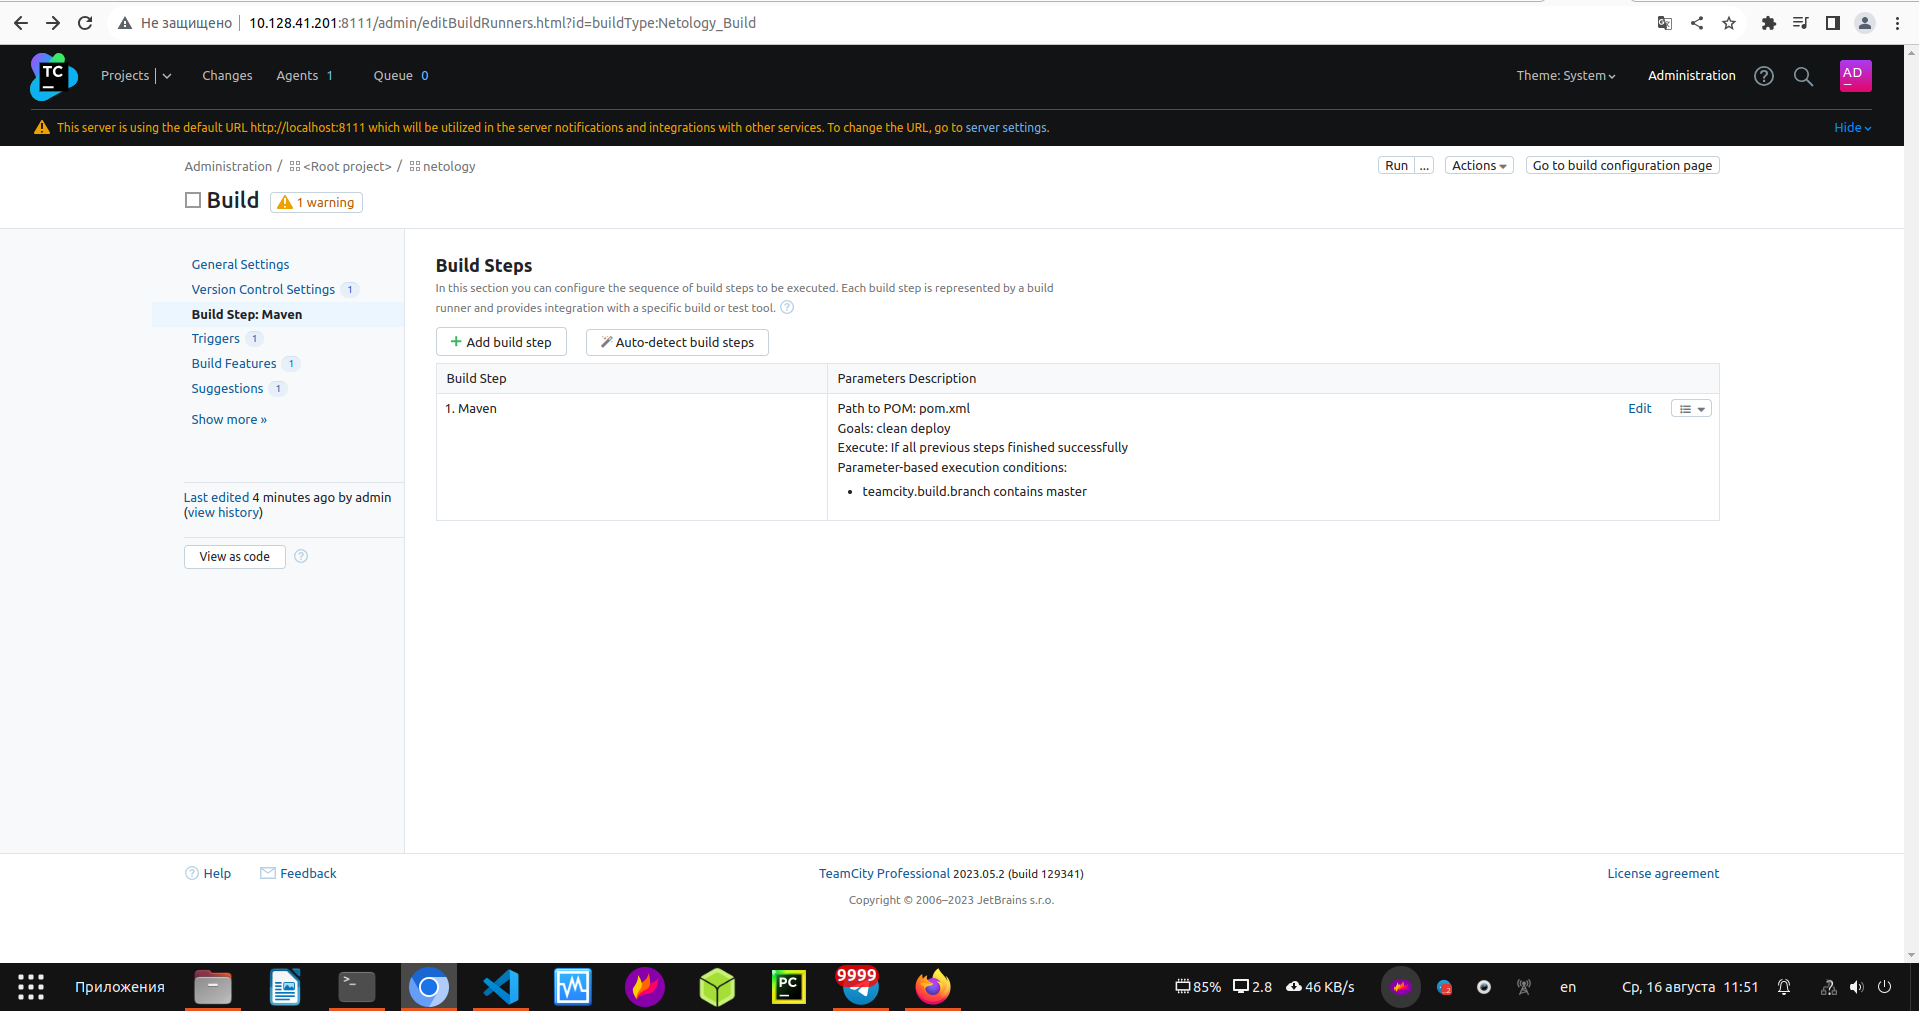
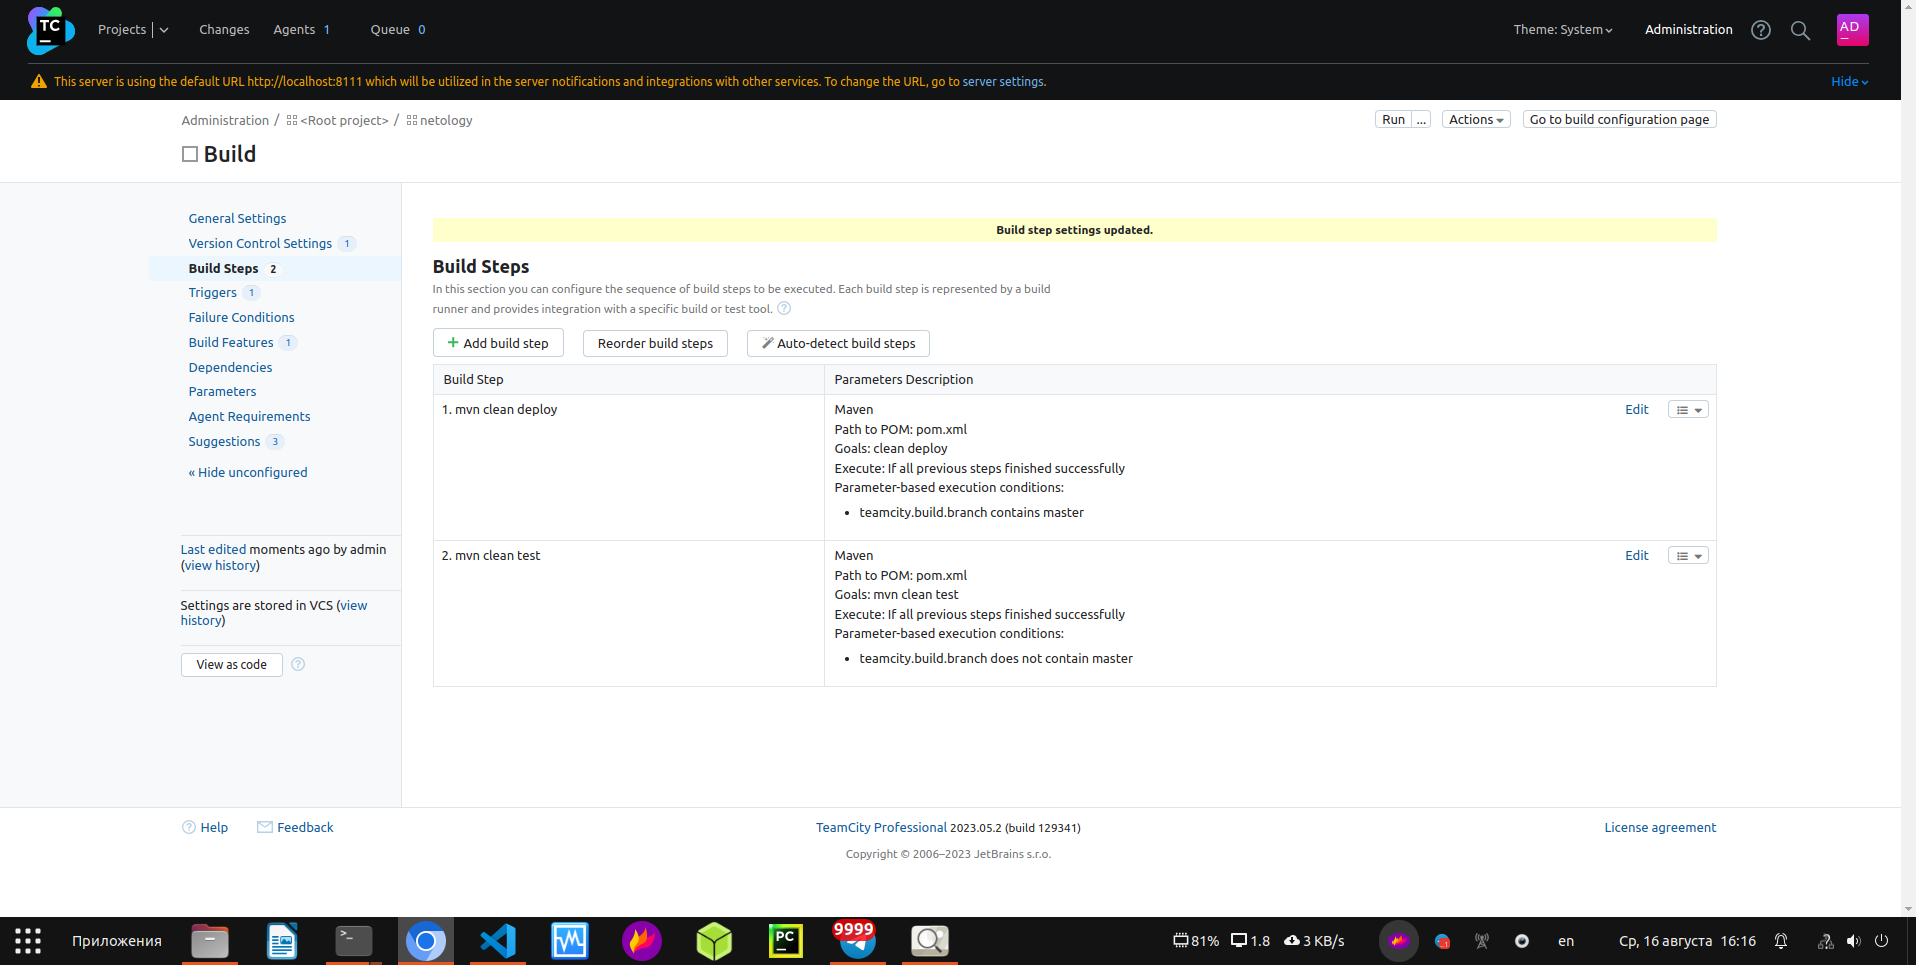
Домашняя работа №9.5(4)

diff --git a/9.5/README.md b/9.5/README.md
@@ -1,0 +1,139 @@
+# Домашнее задание к занятию 11 «Teamcity»
+
+## Подготовка к выполнению
+
+1. В Yandex Cloud создайте новый инстанс (4CPU4RAM) на основе образа `jetbrains/teamcity-server`.
+2. Дождитесь запуска teamcity, выполните первоначальную настройку.
+3. Создайте ещё один инстанс (2CPU4RAM) на основе образа `jetbrains/teamcity-agent`. Пропишите к нему переменную окружения `SERVER_URL: "http://<teamcity_url>:8111"`.
+
+Виртуальные машины я собрал с помощью [docker-compose.yml](https://github.com/george25031996/CI-CD/blob/main/9.5/teamcity/docker-compose.yml)
+
+4. Авторизуйте агент.
+5. Сделайте fork [репозитория](https://github.com/aragastmatb/example-teamcity).
+
+Сделал [fork](https://github.com/george25031996/example-teamcity)
+
+6. Создайте VM (2CPU4RAM) и запустите [playbook](./infrastructure).
+
+## Основная часть
+
+1. Создайте новый проект в teamcity на основе fork.
+
+Создал новый проект в teamcity на основе fork:
+
+<p align="center">
+  <img width="1200" height="600" src="./images/1.png">
+</p>
+
+
+2. Сделайте autodetect конфигурации.
+
+Сделал autodetect конфигурации:
+
+<p align="center">
+  <img width="1200" height="600" src="./images/2.png">
+</p>
+
+3. Сохраните необходимые шаги, запустите первую сборку master.
+
+<p align="center">
+  <img width="1200" height="600" src="./images/3.png">
+</p>
+
+4. Поменяйте условия сборки: если сборка по ветке `master`, то должен происходит `mvn clean deploy`, иначе `mvn clean test`.
+
+<p align="center">
+  <img width="1200" height="600" src="./images/4.png">
+</p>
+
+5. Для deploy будет необходимо загрузить [settings.xml](./teamcity/settings.xml) в набор конфигураций maven у teamcity, предварительно записав туда креды для подключения к nexus.
+
+<p align="center">
+  <img width="1200" height="600" src="./images/5.png">
+</p>
+
+6. В pom.xml необходимо поменять ссылки на репозиторий и nexus.
+
+Поменял
+
+7. Запустите сборку по master, убедитесь, что всё прошло успешно и артефакт появился в nexus.
+
+<p align="center">
+  <img width="1200" height="600" src="./images/6.png">
+</p>
+
+<p align="center">
+  <img width="1200" height="600" src="./images/7.png">
+</p>
+
+8. Мигрируйте `build configuration` в репозиторий.
+
+<p align="center">
+  <img width="1200" height="600" src="./images/8.png">
+</p>
+9. Создайте отдельную ветку `feature/add_reply` в репозитории.
+
+<p align="center">
+  <img width="1200" height="600" src="./images/9.png">
+</p>
+
+10. Напишите новый метод для класса Welcomer: метод должен возвращать произвольную реплику, содержащую слово `hunter`.
+
+<p align="center">
+  <img width="1200" height="600" src="./images/10.png">
+</p>
+
+11. Дополните тест для нового метода на поиск слова `hunter` в новой реплике.
+
+<p align="center">
+  <img width="1200" height="600" src="./images/11.png">
+</p>
+
+12. Сделайте push всех изменений в новую ветку репозитория.
+
+Сделал
+
+13. Убедитесь, что сборка самостоятельно запустилась, тесты прошли успешно.
+
+<p align="center">
+  <img width="1200" height="600" src="./images/12.png">
+</p>
+
+<p align="center">
+  <img width="1200" height="600" src="./images/13.png">
+</p>
+
+14. Внесите изменения из произвольной ветки `feature/add_reply` в `master` через `Merge`.
+
+Внёс изменения
+
+15. Убедитесь, что нет собранного артефакта в сборке по ветке `master`.
+
+<p align="center">
+  <img width="1200" height="600" src="./images/14.png">
+</p>
+
+16. Настройте конфигурацию так, чтобы она собирала `.jar` в артефакты сборки.
+
+<p align="center">
+  <img width="1200" height="600" src="./images/17.png">
+</p>
+
+17. Проведите повторную сборку мастера, убедитесь, что сбора прошла успешно и артефакты собраны.
+
+<p align="center">
+  <img width="1200" height="600" src="./images/15.png">
+</p>
+
+<p align="center">
+  <img width="1200" height="600" src="./images/16.png">
+</p>
+
+18. Проверьте, что конфигурация в репозитории содержит все настройки конфигурации из teamcity.
+
+[Настройки конфигурации из teamcity](https://github.com/george25031996/example-teamcity/tree/master/.teamcity)
+
+19. В ответе пришлите ссылку на репозиторий.
+
+[Репозиторий example-teamcity](https://github.com/george25031996/example-teamcity)
+
